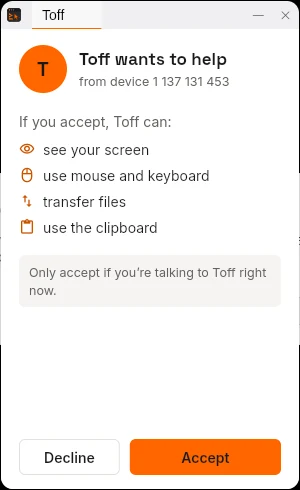
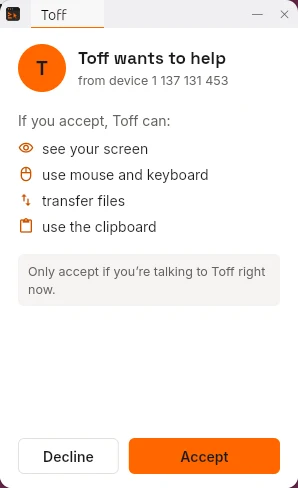
Fernhilfe 1.5.0-lui.3, screenshots from Ubuntu 26.04

diff --git a/lui/CHANGELOG.md b/lui/CHANGELOG.md
@@ -5,6 +5,15 @@ Format: [Keep a Changelog](https://keepachangelog.com/en/1.1.0/).
 
 ## [Unreleased]
 
+## [1.5.0-lui.3]
+
+### Fixed
+- Fernhilfe texts pick their language like RustDesk does (LC_ALL, LC_CTYPE, LANG). Before, English
+  systems with German formats showed English Fernhilfe texts next to German RustDesk texts.
+
+### Changed
+- GitHub page screenshots from a real Ubuntu 26.04 installation.
+
 ## [1.5.0-lui.2]
 
 ### Added
